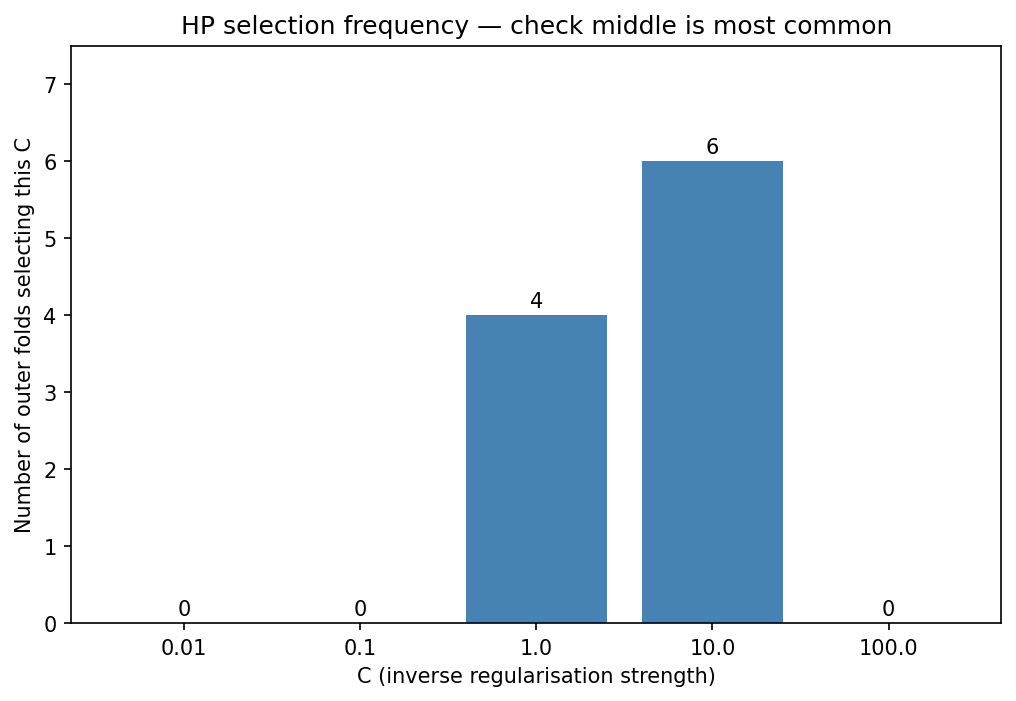
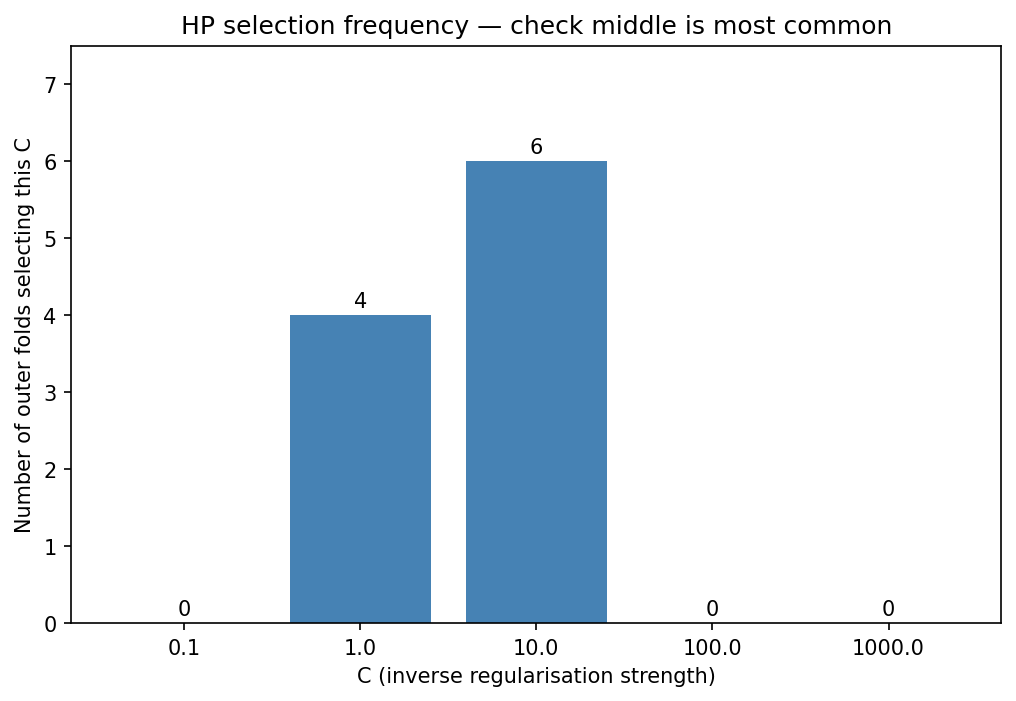
HP grid recentred: LR C grid shifted up, RF n_estimators/max_depth grids extended

diff --git a/scripts/03_logreg.py b/scripts/03_logreg.py
@@ -44,11 +44,11 @@ logger = logging.getLogger("03_logreg")
 SAVE_KWARGS: dict = {"dpi": 150, "bbox_inches": "tight"}
 
 HP_GRID: list[dict] = [
-    {"C": 0.01, "lr": 0.05, "max_iter": 1000, "tol": 1e-6},
     {"C": 0.1, "lr": 0.05, "max_iter": 1000, "tol": 1e-6},
     {"C": 1.0, "lr": 0.05, "max_iter": 1000, "tol": 1e-6},
     {"C": 10.0, "lr": 0.05, "max_iter": 1000, "tol": 1e-6},
     {"C": 100.0, "lr": 0.05, "max_iter": 1000, "tol": 1e-6},
+    {"C": 1000.0, "lr": 0.05, "max_iter": 1000, "tol": 1e-6},
 ]
 
 

diff --git a/scripts/04_rf.py b/scripts/04_rf.py
@@ -43,8 +43,8 @@ logger = logging.getLogger("04_rf")
 
 SAVE_KWARGS: dict = {"dpi": 150, "bbox_inches": "tight"}
 
-N_ESTIMATORS_GRID: tuple[int, ...] = (50, 200, 500)
-MAX_DEPTH_GRID: tuple[int | None, ...] = (10, 30, None)
+N_ESTIMATORS_GRID: tuple[int, ...] = (200, 500, 1000)
+MAX_DEPTH_GRID: tuple[int | None, ...] = (20, 50, None)
 
 
 def build_hp_grid() -> list[dict]:
